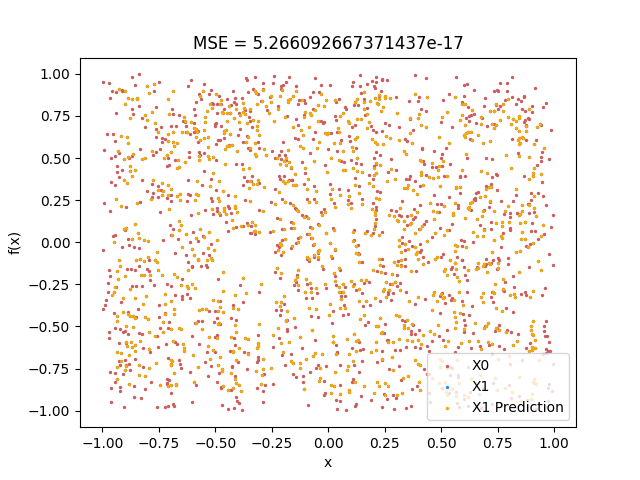
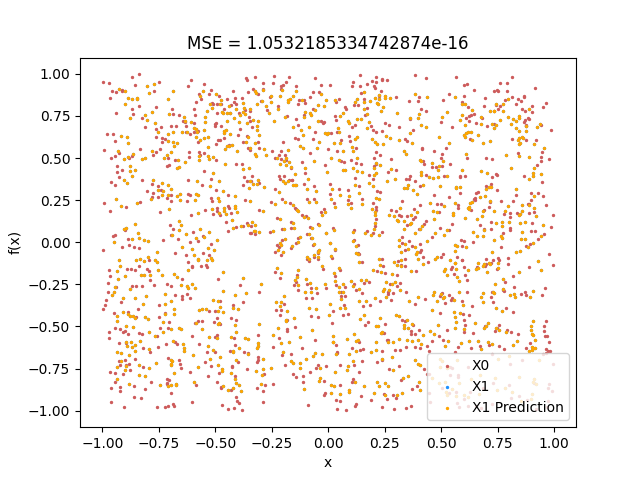
change mse

Changed region(s): [[0.2812, 0.0625, 0.75, 0.125]]

diff --git a/Util.py b/Util.py
@@ -35,8 +35,10 @@ def mse(y_truth, y_pred):
 
     #d1 = (np.linalg.norm(y_truth - y_pred) ** 2) / len(y_pred)  # 1.0532185334742879e-16
     #d2 = mean_squared_error(y_truth, y_pred)  # 5.266092667371443e-17
-    x = ((y_truth - y_pred) ** 2).mean()  # 5.266092667371437e-17
-    return x
+    d3 = np.sum(((y_truth - y_pred) ** 2)) / len(y_truth) # 1.0532185334742874e-16
+    #d4 = ((y_truth - y_pred) ** 2).mean()  # 5.266092667371437e-17
+
+    return d3
 
 
 def distance_matrix(x):
